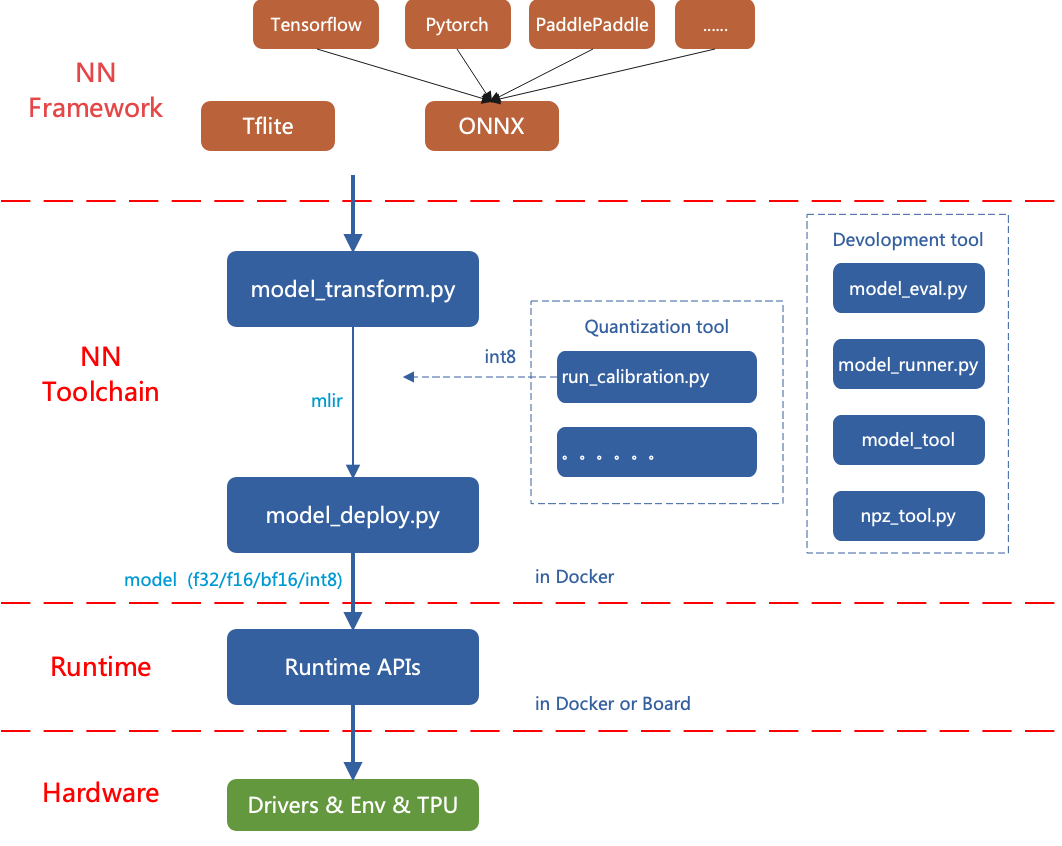
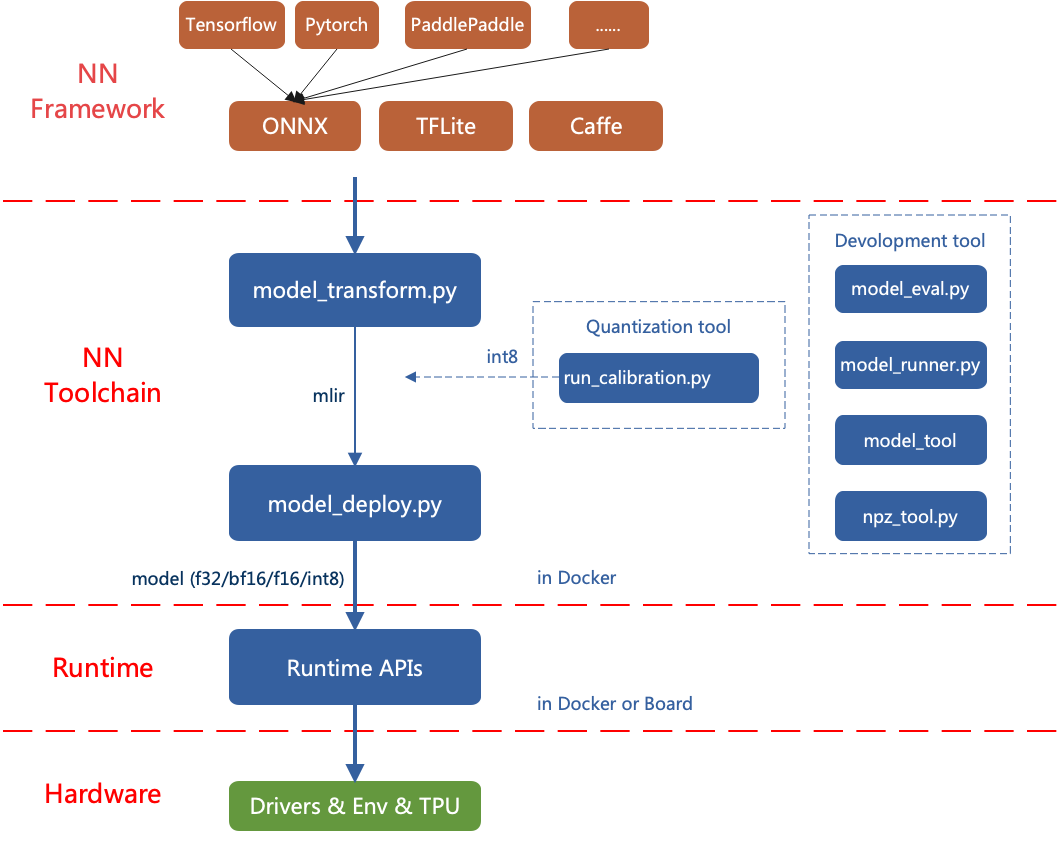
update doc

diff --git a/doc/developer_manual/source_zh/03_user_interface.rst b/doc/developer_manual/source_zh/03_user_interface.rst
@@ -28,7 +28,7 @@
 
 
 
-也支持TFLite模型的转换，命令参考如下：
+支持TFLite模型的转换，命令参考如下：
 
 .. code-block:: console
 
@@ -54,6 +54,25 @@
        --model resnet50_tf_1684x.bmodel
 
 
+支持Caffe模型的转换，命令如下：
+
+.. code-block:: console
+
+    # Caffe转模型举例
+    $ model_transform.py \
+        --model_name resnet18_cf \
+        --model_def  ../resnet18.prototxt \
+        --model_data ../resnet18.caffemodel \
+        --input_shapes [[1,3,224,224]] \
+        --mean 104,117,123 \
+        --scale 1.0,1.0,1.0 \
+        --pixel_format bgr \
+        --test_input ../image/dog.jpg \
+        --test_result resnet50_cf_top_outputs.npz \
+        --mlir resnet50_cf.mlir
+    # model_deploy的调用与onnx一致
+    # ......
+
 .. _model_transform:
 
 model_transform.py
@@ -74,7 +93,10 @@ model_transform.py
      - 指定模型名称
    * - model_def
      - 是
-     - 模型定义文件
+     - 指定模型定义文件，比如`.onnx`或`.tflite`或`.prototxt`文件
+   * - model_data
+     - 否
+     - 指定模型权重文件，caffe模型需要，对应`.caffemodel`文件
    * - input_shapes
      - 否
      - 指定输入的shape，例如[[1,3,640,640]]；二维数组，可以支持多输入情况

diff --git a/README.md b/README.md
@@ -116,7 +116,8 @@ model_transform.py \
 | **参数名**           | 必选？ | **说明**            |
 | ------------------- | ----- | ------------------- |
 | model_name          | 是    | 指定模型名称          |
-| model_def           | 是    | 指定模型文件("*.onnx, *.tflite") |
+| model_def           | 是    | 指定模型定义文件，比如`.onnx`或`.tflite`或`.prototxt`文件 |
+| model_data          | 否    | 指定模型权重文件，caffe模型需要，对应`.caffemodel`文件 |
 | input_shapes        | 否    | 指定输入的shape，例如[[1,3,640,640]]；二维数组，可以支持多输入情况 |
 | resize_dims         | 否    | 原始图片需要resize之后的尺寸；如果不指定，则resize成模型的输入尺寸 |
 | keep_aspect_ratio   | 否    | 在Resize时是否保持长宽比，默认为false；设置时会对不足部分补0 |

diff --git a/doc/developer_manual/source_zh/01_introduction.rst b/doc/developer_manual/source_zh/01_introduction.rst
@@ -15,7 +15,7 @@ TPU-MLIR的整体架构如下：
    TPU-MLIR整体架构
 
 
-目前直接支持的框架有tflite和onnx。其他框架的模型需要转换成onnx模型。如何将其他深
+目前直接支持的框架有onnx、caffe和tflite。其他框架的模型需要转换成onnx模型。如何将其他深
 度学习架构的网络模型转换成onnx，可以参考onnx官网:
 https://github.com/onnx/tutorials。
 
